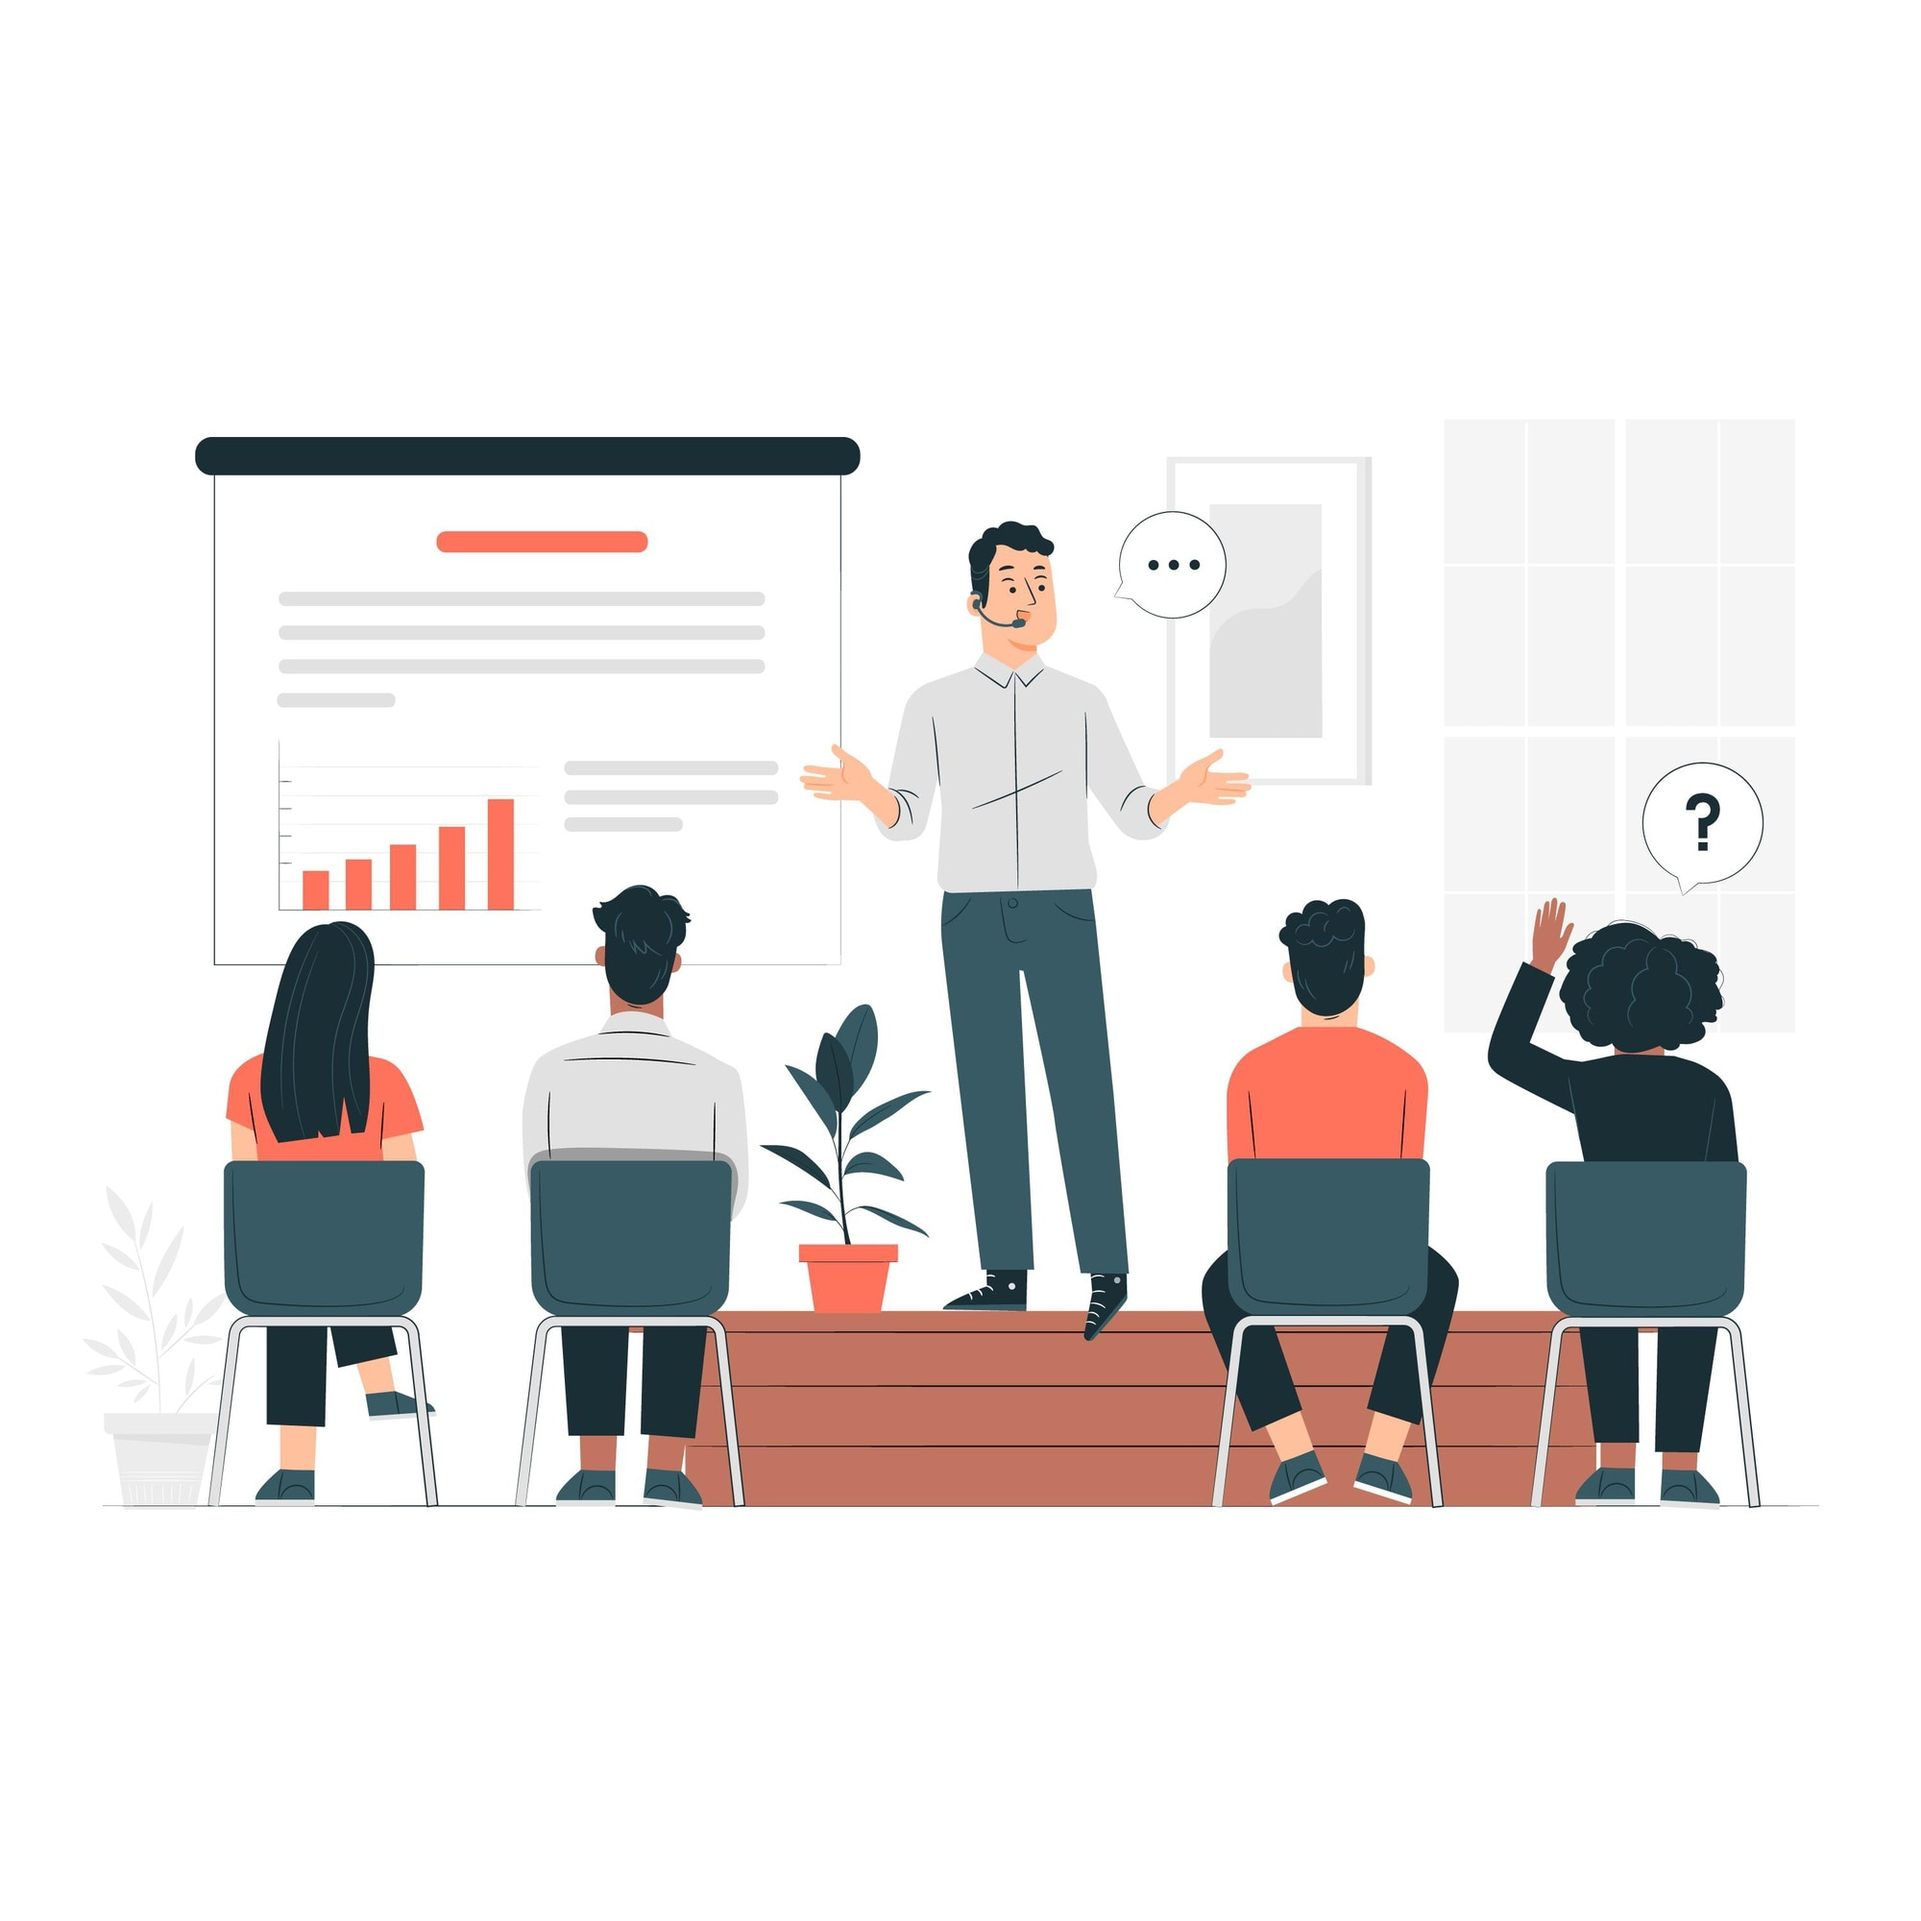
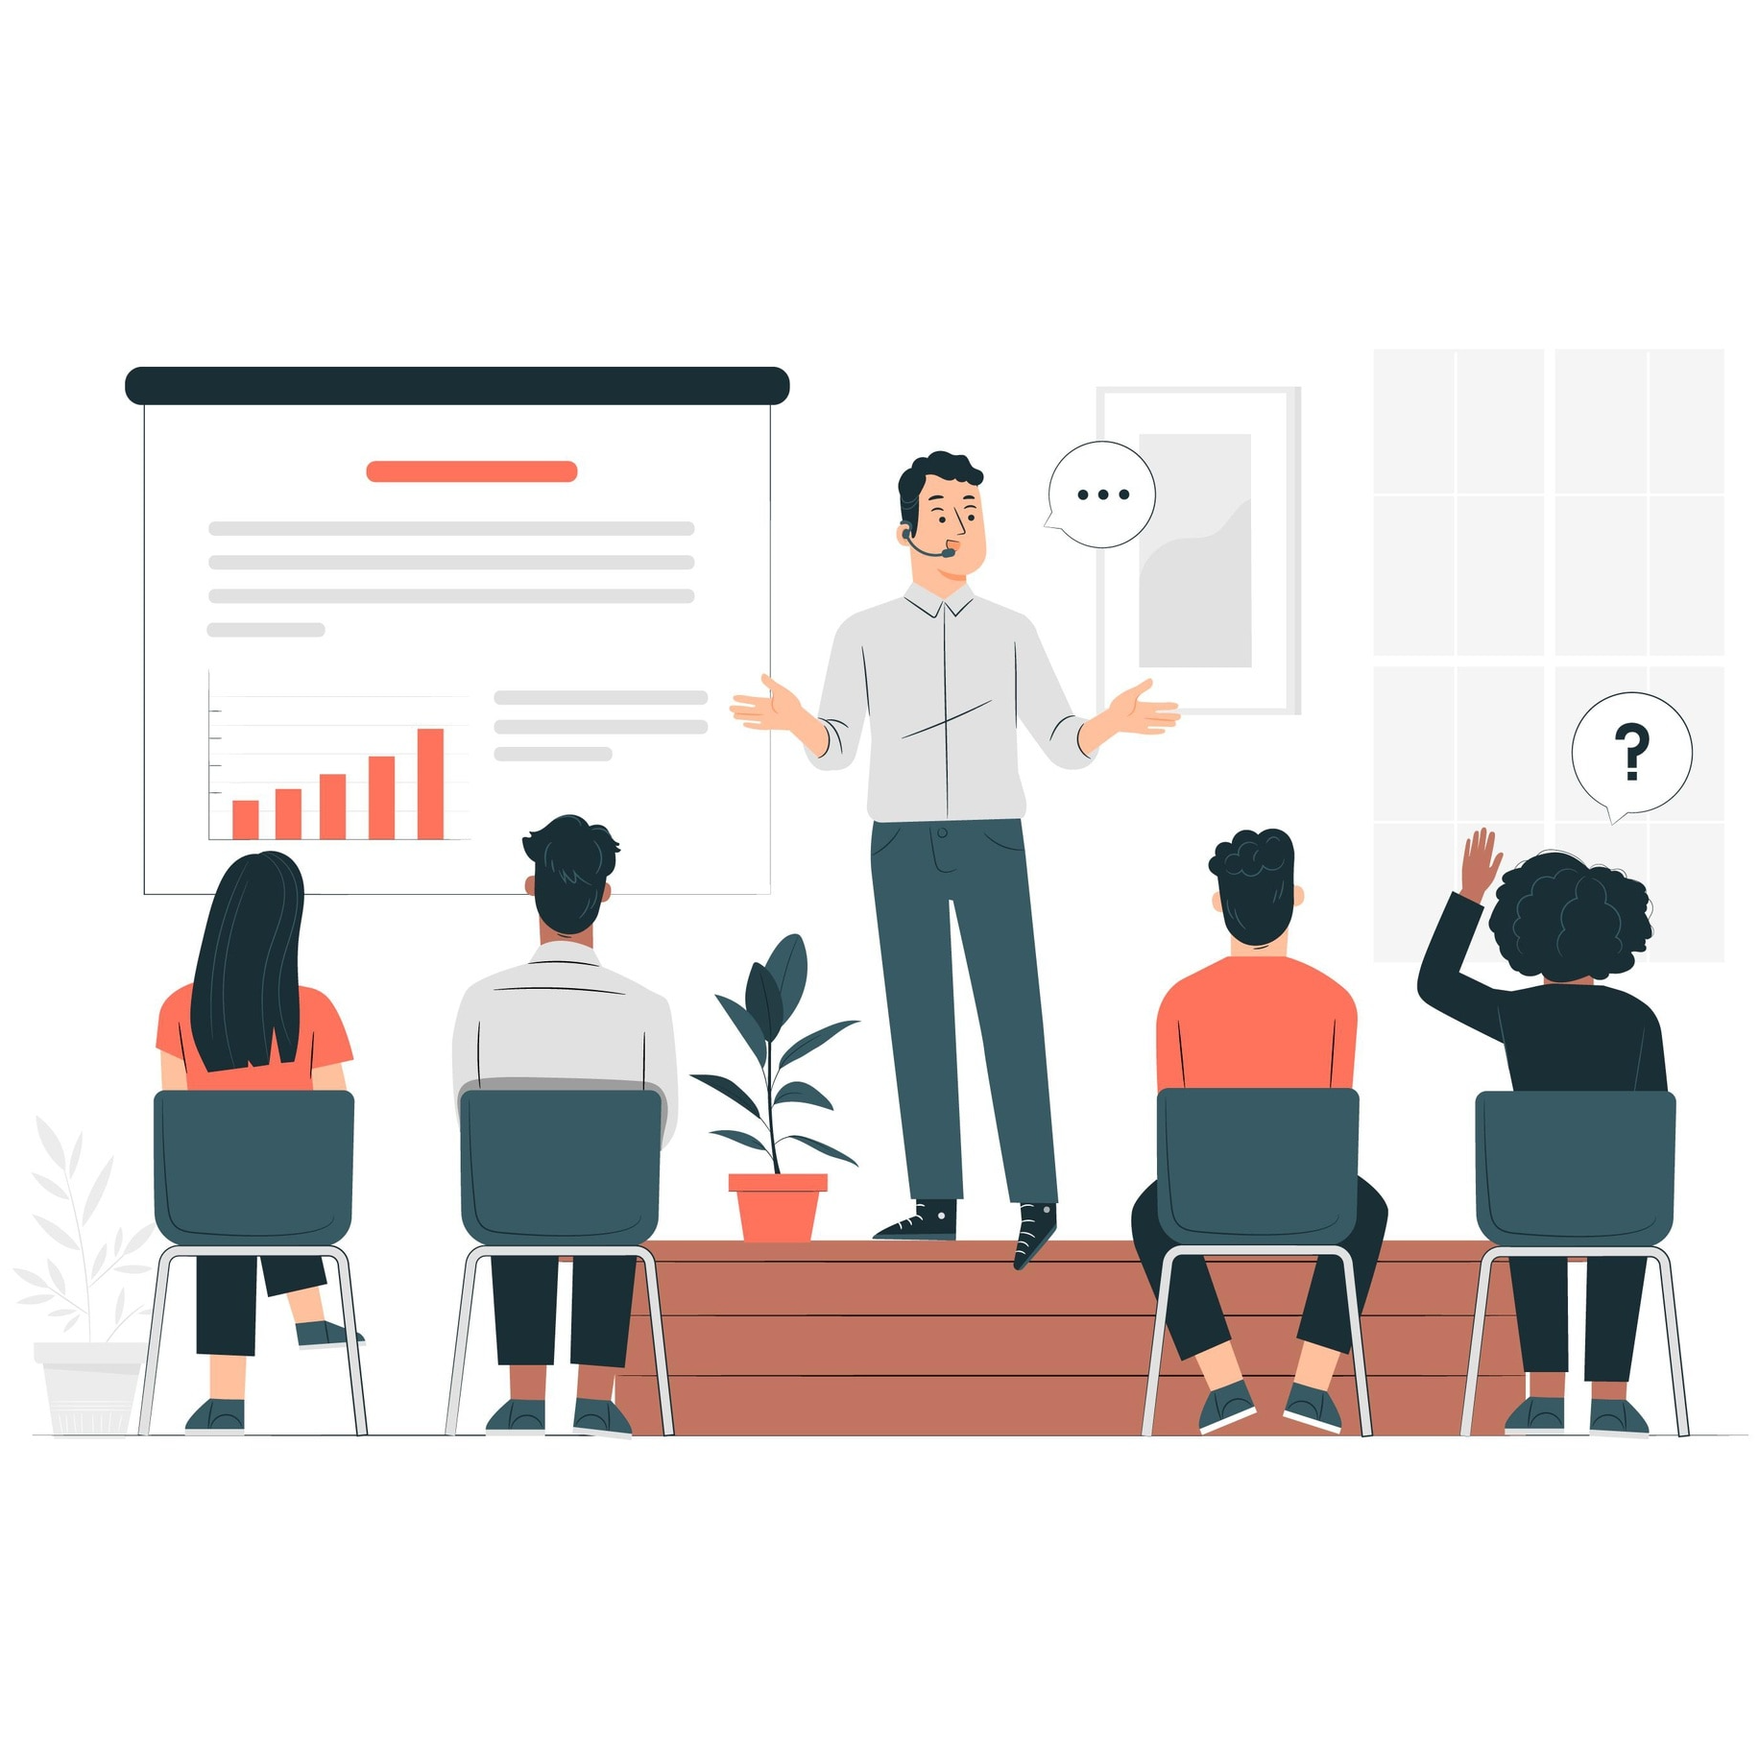
fix

Changed region(s): [[0.0622, 0.1867, 0.9645, 0.8401]]

diff --git a/services/index.html b/services/index.html
@@ -81,7 +81,7 @@
                             </svg>
                             <svg class="shape-2 d-none d-sm-block" viewBox="0 0 100 100" xmlns="http://www.w3.org/2000/svg"><circle cx="50" cy="50" r="50"></circle>
                             </svg>
-                            <img src="../assets/img/operational-support-consultant-working-transparent.png" width="500px" height="500px" alt="..." /></a>
+                            <img src="../assets/img/operational-support-consultant-working-transparent.png" style="max-width: 100%" alt="..." /></a>
                         </div>
                     </div>
                 </div>
@@ -143,13 +143,13 @@
                             </defs>
                             <circle cx="50" cy="50" r="50"></circle>
                         </svg> -->
-                        <svg class="shape-1 d-none d-sm-block" viewBox="0 0 240.83 240.83" xmlns="http://www.w3.org/2000/svg">
+                        <!-- <svg class="shape-1 d-none d-sm-block" viewBox="0 0 240.83 240.83" xmlns="http://www.w3.org/2000/svg">
                             <rect x="-32.54" y="78.39" width="305.92" height="84.05" rx="42.03" transform="translate(120.42 -49.88) rotate(45)"></rect>
                             <rect x="-32.54" y="78.39" width="305.92" height="84.05" rx="42.03" transform="translate(-49.88 120.42) rotate(-45)"></rect>
-                        </svg>
-                        <svg class="shape-2 d-none d-sm-block" viewBox="0 0 100 100" xmlns="http://www.w3.org/2000/svg"><circle cx="50" cy="50" r="50"></circle>
-                        </svg>
-                          <img src="../assets/img/operational-support-presenter.png" width="500px" height="500px" alt="..." /></a>
+                        </svg> -->
+                        <!-- <svg class="shape-2 d-none d-sm-block" viewBox="0 0 100 100" xmlns="http://www.w3.org/2000/svg"><circle cx="50" cy="50" r="50"></circle>
+                        </svg> -->
+                          <img src="../assets/img/operational-support-presenter.png" style="max-width: 100%" alt="..." /></a>
 
                       </div>
                   </div>

diff --git a/partners/index.html b/partners/index.html
@@ -86,7 +86,7 @@
                             </svg>
                             <svg class="shape-2 d-none d-sm-block" viewBox="0 0 100 100" xmlns="http://www.w3.org/2000/svg"><circle cx="50" cy="50" r="50"></circle>
                             </svg>
-                            <img src="../assets/img/deals-transparent.png" width="500px" height="500px" alt="..." /></a>
+                            <img src="../assets/img/deals-transparent.png" style="max-width: 100%" alt="..." /></a>
                         </div>
                     </div>
                 </div>
